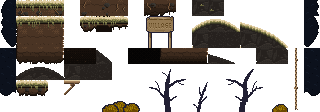
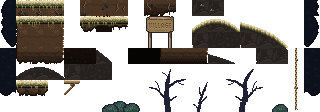
Recolour the floor tufts from ochre to moss
The floor tufts (prop-126/127/128/137 in terrain.grid) used the honey
fungus's reserved ochre. They are plain decor, so they now take a dark
moss (3a5a50/2a443f/4c7064); shapes and outline are unchanged. The
contrast gate passes (body 0.185 to 0.137, outline 0.199).

Refs #236

Changed region(s): [[0.3125, 0.9107, 0.4375, 1.0], [0.8438, 0.9375, 0.9062, 1.0]]

diff --git a/docs/ART_DIRECTION.md b/docs/ART_DIRECTION.md
@@ -508,7 +508,7 @@ Rooms with high play must still be measured over the real layers before `RIM_SHE
 - **Falling leaves (#236):** `526666`, `5b6f70`, `616764` were set 0.14 to 0.17 from `2c3f66`; re-measure over far and mid (0.250 to
   0.371). They stay in front of the mid layer, not in the foreground.
 - **Third-party tile scenery (#189):** `forest-terrain` and the new layers replace `Tileset.png`, deleted with D112. Its props (the village
-  sign, the bare trees, the ochre tufts) are copied pixel for pixel into the terrain sheet at their old tile ids (`prop-<id>` in
+  sign, the bare trees, the floor tufts, recoloured dark moss `3a5a50`/`2a443f`/`4c7064` because the ochre was the honey fungus's reserved hue) are copied pixel for pixel into the terrain sheet at their old tile ids (`prop-<id>` in
   `terrain.grid`) and stay reported, not gated, until they are redrawn ([#189](https://github.com/jlogicgames/edgard_in_kimeria/issues/189)).
 
 ### 6. Author answers (2026-11-19)
